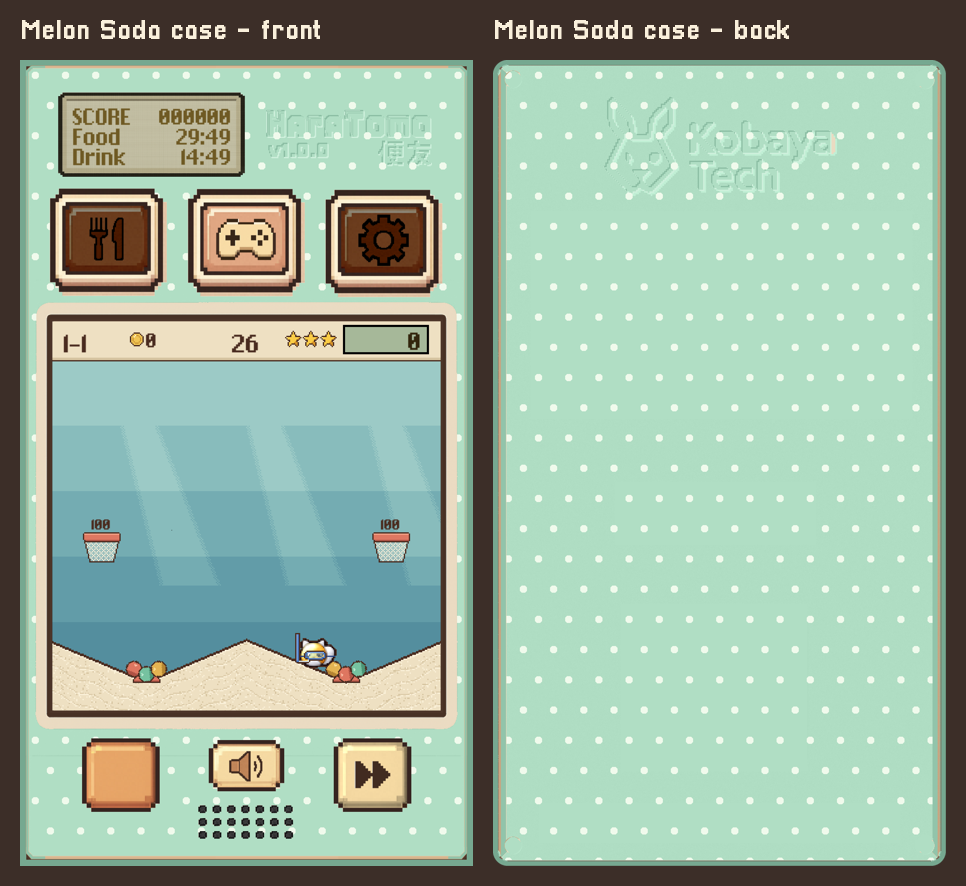
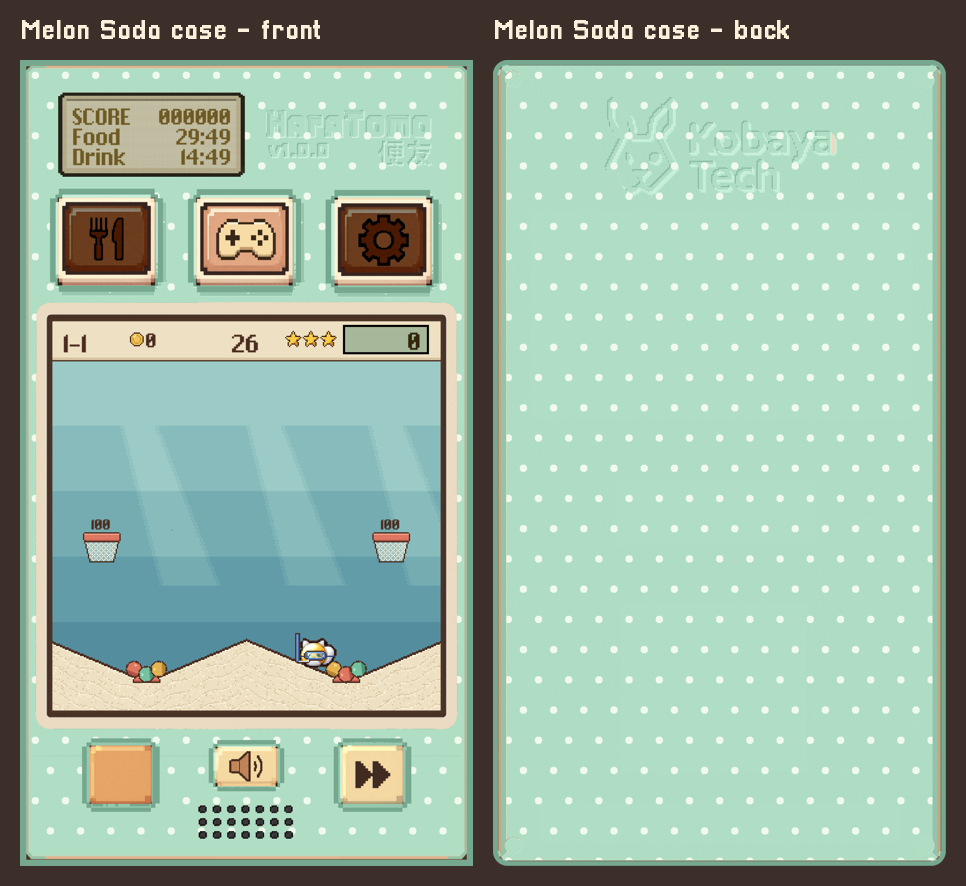
Case mockup: bumps round the buttons (their borders in the case's colours, a hole for the pressable part)

diff --git a/docs/ideas_roadmap.md b/docs/ideas_roadmap.md
@@ -628,7 +628,9 @@ then pages); the section's name is the page title. Coins on the frame's top band
    bottom; the buttons and the screen keep their own colours; HaraTomo (front) and Kobaya Tech
    (back, nothing else carved there) are CARVED into it, in
    the case's own colour (pressed in: a shade on the top-left inner edge, light on the bottom
-   right). The case covers the battery compartment too (user, 2026-10-13): to change the
+   right). The buttons' outer borders are part of the case (user, 2026-10-13): raised bumps in
+   the case's colours, each with a hole that shows only the pressable part and its own frame.
+   The case covers the battery compartment too (user, 2026-10-13): to change the
    batteries you take the case off.
    TO DECIDE (user, 2026-10-13): how a case is put on / taken off (on the device's back, flipped:
    e.g. hold to slide it off, like the films and the battery strip of the unboxing), and how
